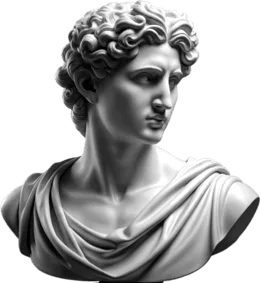
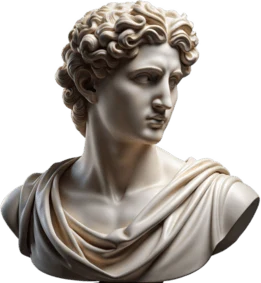
Best Dressed: no-photo bust shows the marble image in original colors
Regenerate bust-placeholder.webp keeping original colors (not grayscale) and
render it directly — no gradient fill, no mask.

diff --git a/YaelFits/Views/Feed/VibersListSheet.swift b/YaelFits/Views/Feed/VibersListSheet.swift
@@ -423,20 +423,15 @@ private struct VibesLeaderboardBust: View {
         }
     }
 
-    /// Placeholder bust for users with no photo: the classical bust used purely
-    /// as a silhouette MASK, filled flat with their per-initial gradient (the
-    /// same gradient their round avatar uses). No marble detail inside — just a
-    /// clean gradient bust shape, so it sits in the row like everyone else's
-    /// real cut-out.
+    /// Placeholder bust for users with no photo: the classical marble bust in
+    /// its original colors, so it sits in the row like everyone else's real
+    /// cut-out.
     @ViewBuilder
     private var silhouetteBust: some View {
         if let bust = Self.bustPlaceholder {
-            AvatarGradients.gradient(for: profile.initial)
-                .mask {
-                    Image(uiImage: bust)
-                        .resizable()
-                        .aspectRatio(contentMode: .fit)
-                }
+            Image(uiImage: bust)
+                .resizable()
+                .aspectRatio(contentMode: .fit)
                 .frame(width: frameWidth, height: avatarSize)
         } else {
             // Asset missing → plain gradient block rather than nothing.
